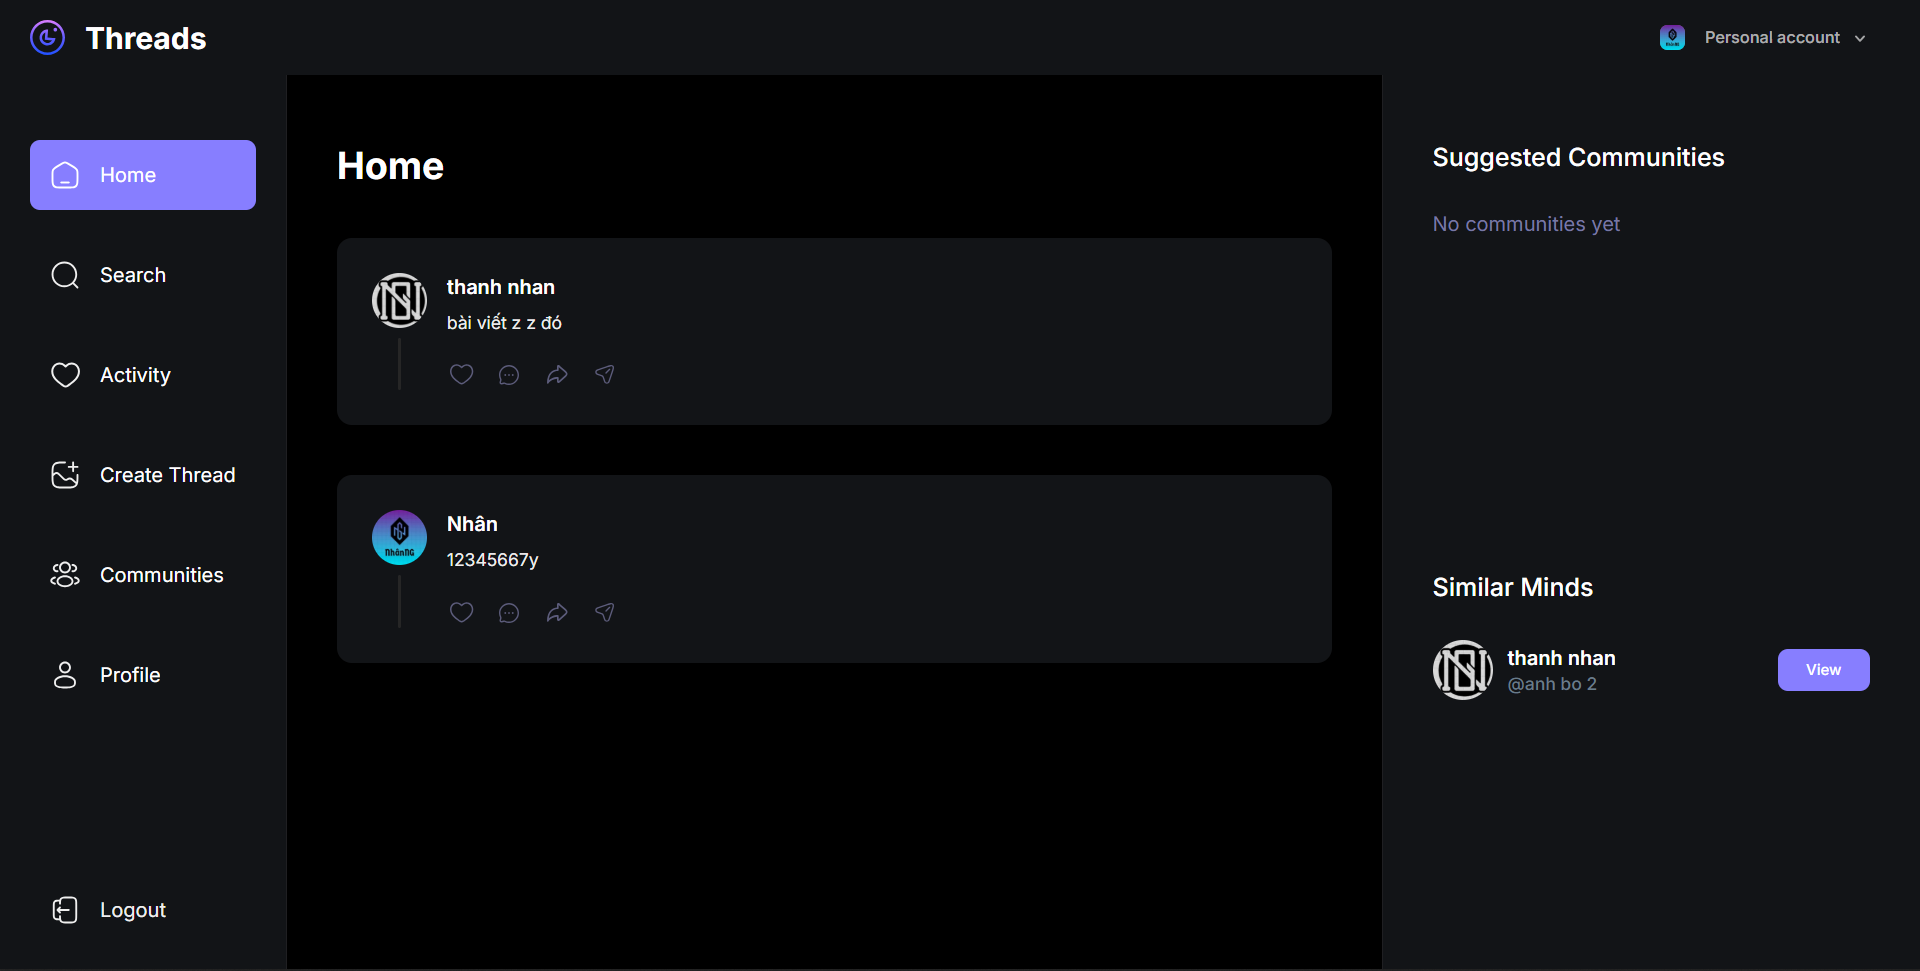
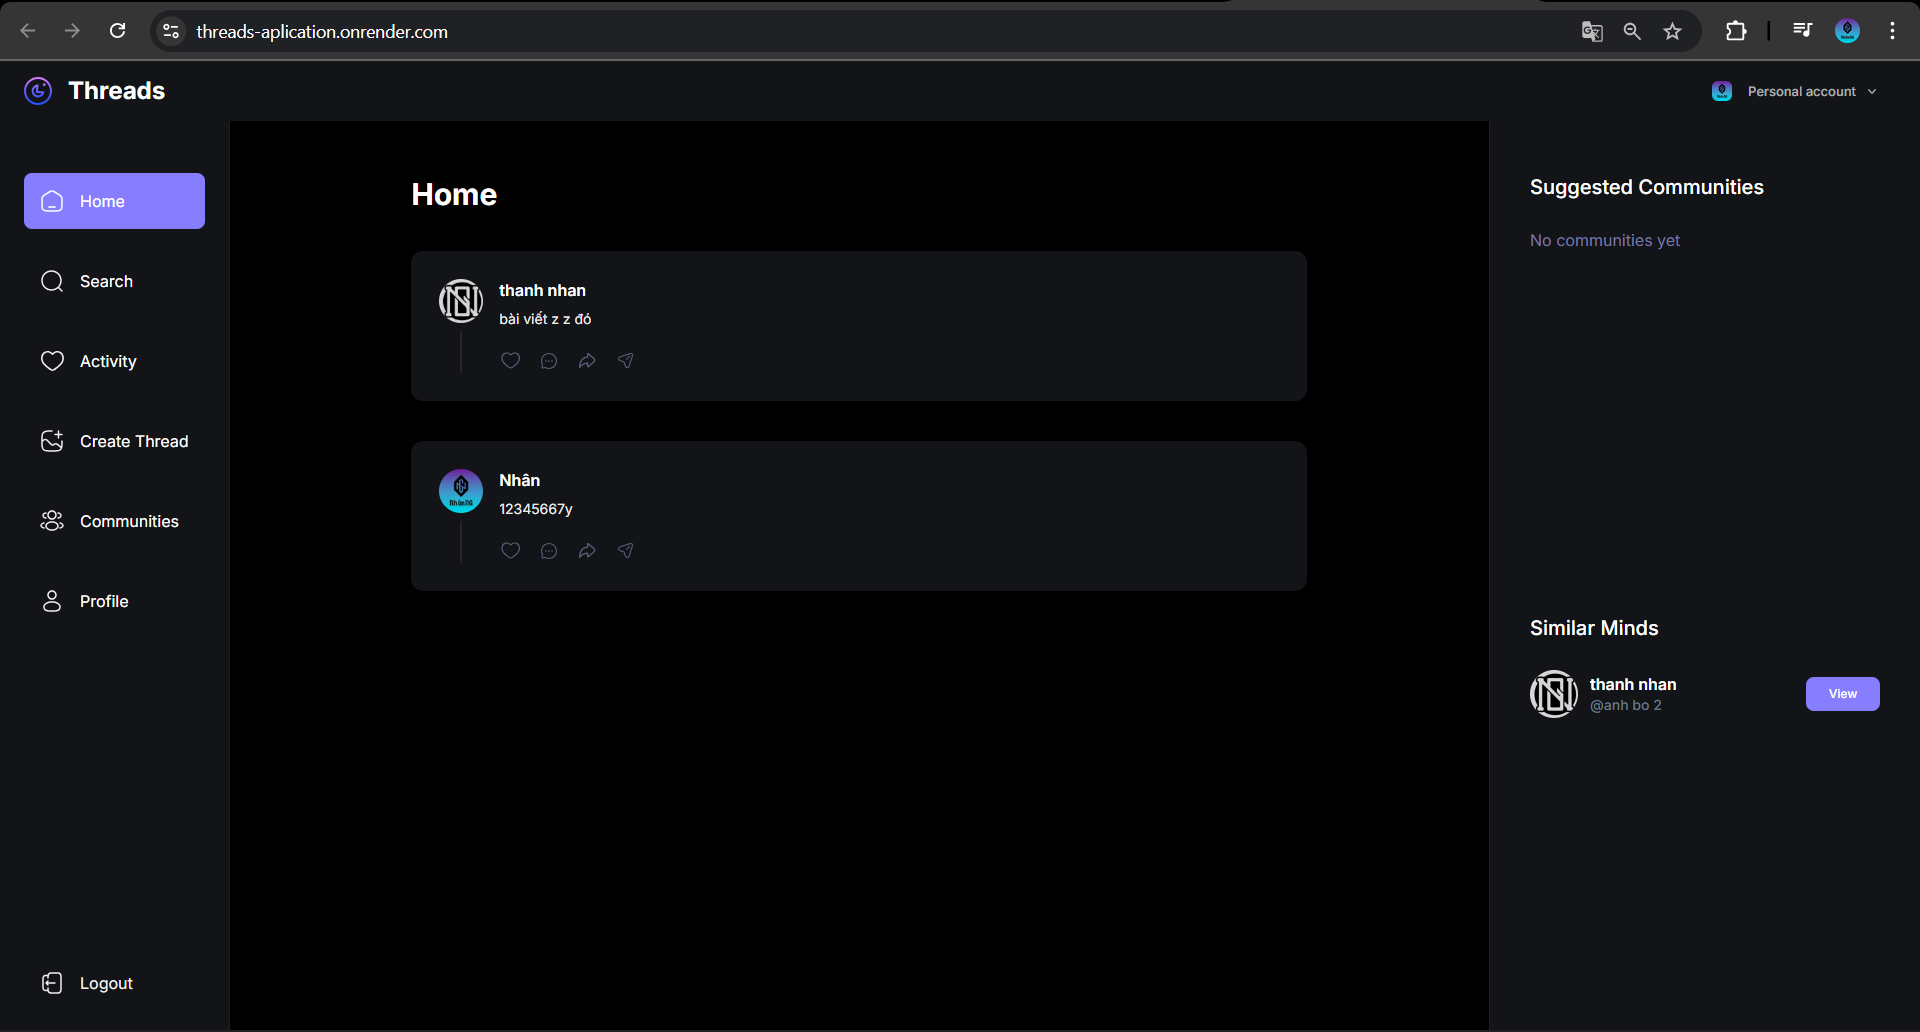
thêm project

diff --git a/src/constants/index.js b/src/constants/index.js
@@ -23,6 +23,7 @@ import {
   ICT,
   CN,
   cowi,
+  thread,
 } from "../assets";
 
 export const navLinks = [
@@ -276,6 +277,28 @@ const projects = [
     image: elecWeb,
     source_code_link: "https://github.com/AnhBoHelloTeam/Shop_Fontend_REACT.git",
     live_demo_link: "https://shop-frontend-8yko.onrender.com/",
+  },
+  {
+    name: "Threads Application",
+    description:
+      "Building a full-stack clone of Threads (a social media platform) with Next.js 14+ involves several stages, including user interface design, backend API development, real-time features, user authentication, notifications, and community management. The platform should support various features like nested comments, real-time search, and notifications.",
+    tags: [
+      {
+        name: "nextjs",
+        color: "blue-text-gradient",
+      },
+      {
+        name: "mongodb",
+        color: "green-text-gradient",
+      },
+      {
+        name: "tailwind",
+        color: "pink-text-gradient",
+      },
+    ],
+    image: thread,
+    source_code_link: "https://github.com/AnhBoHelloTeam/Threads-Aplication.git",
+    live_demo_link: "https://threads-aplication.onrender.com/",
   },
   {
     name: "Flutter Mobile App",

diff --git a/src/assets/index.js b/src/assets/index.js
@@ -32,6 +32,7 @@ import FastfoodWeb from "./projects/FastfoodWeb.png";
 import elecAppP from "./projects/elecAppP.png";
 import nhanprofolio from "./projects/nhanprofolio.png";
 import badnhan from "./projects/3dnhan.png";
+import thread from "./projects/thread.png";
 
 export {
   logo,
@@ -63,4 +64,5 @@ export {
   ICT,
   CN,
   cowi,
+  thread,
 };
